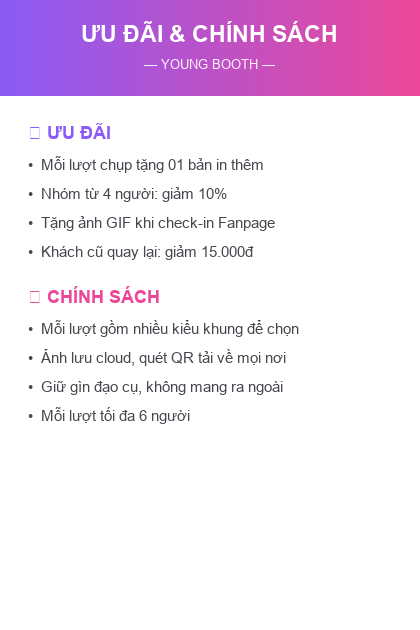
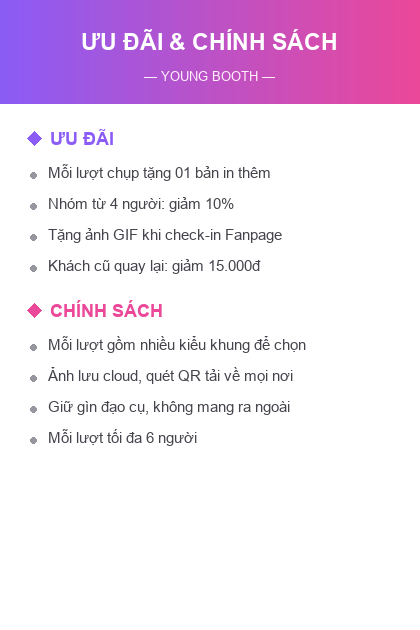
Sửa Khung 1 bị cắt chữ: showcase img object-fit contain + vẽ hình thoi

Changed region(s): [[0.0, 0.0302, 1.0, 0.7238], [0.0619, 0.6937, 0.0929, 0.7238], [0.0619, 0.3619, 0.0929, 0.3921]]

diff --git a/renderer/styles.css b/renderer/styles.css
@@ -72,7 +72,7 @@ html, body {
   background: var(--panel); border: 1px solid rgba(255,255,255,0.12);
   box-shadow: 0 12px 34px rgba(0,0,0,0.45); display: flex; align-items: center; justify-content: center;
 }
-.hs-card img { width: 100%; height: 100%; object-fit: cover; }
+.hs-card img { width: 100%; height: 100%; object-fit: contain; background: #fff; }
 .hs-ph { background: linear-gradient(135deg, var(--accent1), var(--accent2)); color: #fff; font-weight: 800; font-size: 20px; }
 
 /* ---------- buttons ---------- */
